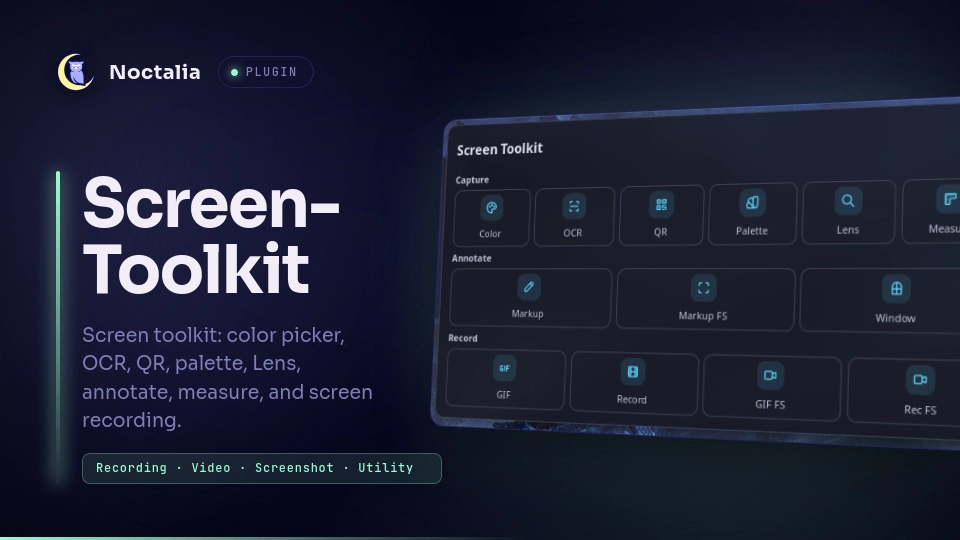
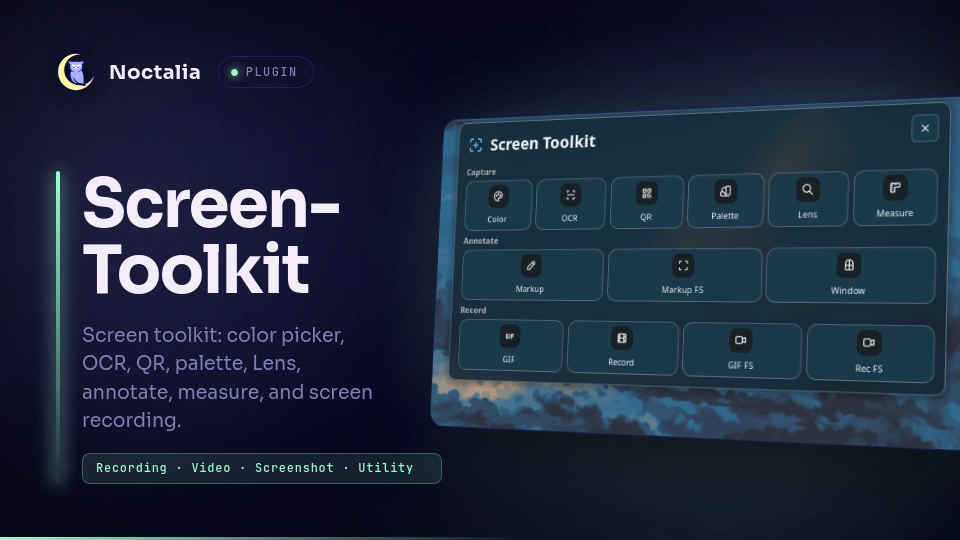
screen-toolkit: add compact/full panel modes, mode-aware toggle, and … (#237)
* screen-toolkit: add compact/full panel modes, mode-aware toggle, and full documentation

* screen-toolkit: restrict compact tile hover/click to icon and label

* screen-toolkit: full-mode hover border on tile, mirror compact colors

* screen-toolkit: add plugin thumbnail screenshot

---------

Changed region(s): [[0.4375, 0.1778, 1.0, 0.8296], [0.75, 0.1778, 0.8438, 0.2074], [0.6875, 0.2074, 0.75, 0.237]]

diff --git a/screen-toolkit/README.md b/screen-toolkit/README.md
@@ -16,7 +16,7 @@ not the original implementation.
 | Field | Value |
 | --- | --- |
 | ID | `alexander/screen-toolkit` |
-| Entries | Bar widget: `widget`; control-center shortcut: `toggle`; panels: `panel` (tools), `result` (result view); service: `service` |
+| Entries | Bar widget: `widget`; control-center shortcut: `toggle`; panels: `panel` (compact tools), `panel-full` (full tools), `result` (result view); service: `service` |
 
 ## Requirements
 
@@ -60,10 +60,43 @@ Settings → Control Center shortcuts. Left-click either one opens the main pane
 (or stops a recording); right-clicking the bar widget quick-picks a color. While
 a recording is active, the widget and shortcut show a pulsing red dot.
 
-Open the main tools panel:
+The main panel has two layouts, selected by the `panel-mode` setting (default:
+**Full**):
+
+- **Full** — the spacious original grid with section titles (`panel-full`,
+  660×340).
+- **Compact** — a dense grid grouped into tinted sections (`panel`,
+  380×260).
+
+The widget and shortcut open whichever entry matches the setting; the panel
+footnote under Settings → Plugins shows both panels' placement/position
+options.
+
+Toggle the tools panel (opens the entry matching the `panel-mode` setting):
+
+```sh
+noctalia msg plugin alexander/screen-toolkit:service all toggle
+```
+
+For example, bind it to `SUPER+P` in Hyprland:
+
+```ini
+bind = SUPER, P, exec, noctalia msg plugin alexander/screen-toolkit:service all toggle
+```
+
+Because `toggle` reads the `panel-mode` setting, this single bind works in both
+full and compact mode — no need to change the keybind when you switch layouts.
+
+Open the compact tools panel:
 
 ```sh
 noctalia msg panel-toggle alexander/screen-toolkit:panel
+```
+
+Open the full tools panel (the original spacious grid):
+
+```sh
+noctalia msg panel-toggle alexander/screen-toolkit:panel-full
 ```
 
 Open the result panel (shows the last capture/recording output):
@@ -131,6 +164,7 @@ All settings live in Settings → Plugins (gear on the plugin's row).
 | `record-skip-confirmation` | `bool` | `false` | Save automatically when a recording ends, skipping the save dialog. |
 | `record-copy-to-clipboard` | `bool` | `false` | Finalize to MP4 and copy the file URI when recording ends. |
 | `gif-max-seconds` | `int` | `30` | Cap for GIF recordings (1–600 s). |
+| `panel-mode` | `select` | `full` | Main panel layout: `full` (spacious original grid, 660×340) or `compact` (dense grid, 380×260). |
 
 ## IPC
 
@@ -153,17 +187,70 @@ noctalia msg plugin alexander/screen-toolkit:service all recordFullscreen
 noctalia msg plugin alexander/screen-toolkit:service all recordFullscreenMp4
 noctalia msg plugin alexander/screen-toolkit:service all recordStop
 noctalia msg plugin alexander/screen-toolkit:service all recordSave
+noctalia msg plugin alexander/screen-toolkit:service all recordCopy
 noctalia msg plugin alexander/screen-toolkit:service all recordDiscard
+noctalia msg plugin alexander/screen-toolkit:service all ocrSearch
+noctalia msg plugin alexander/screen-toolkit:service all clearResult
+noctalia msg plugin alexander/screen-toolkit:service all clearHistory
 ```
 
-`ocrTranslate` takes a language code payload:
+`toggle` opens the tools panel **matching the `panel-mode` setting** — one IPC
+that works for both layouts. The bar widget and control-center shortcut use the
+same mode-aware toggle.
+
+Commands that take a payload:
 
 ```sh
+# Translate the current OCR text into a language (language code payload)
 noctalia msg plugin alexander/screen-toolkit:service all ocrTranslate en
+# Search the current OCR text (or a payload.text) with the configured engine
+noctalia msg plugin alexander/screen-toolkit:service all ocrSearch
+# Share a file on disk (absolute path payload)
+noctalia msg plugin alexander/screen-toolkit:service all share /path/to/image.png
+# Save the finished recording (payload format: "gif" or "mp4")
+noctalia msg plugin alexander/screen-toolkit:service all recordSave mp4
+# Show or hide the cursor in captures (payload: "true" or "false")
+noctalia msg plugin alexander/screen-toolkit:service all setCursorHidden true
 ```
+
+Summary of every service command:
+
+| Command | Payload | Action |
+| --- | --- | --- |
+| `toggle` | — | Open/close the tools panel that matches `panel-mode` |
+| `colorPicker` | — | Pick a color from the screen (region crosshair) |
+| `ocr` | — | Extract text from a region |
+| `qr` | — | Decode a QR / barcode from a region |
+| `palette` | — | Extract hex colors from a region |
+| `lens` | — | Google Lens search on a region |
+| `measure` | — | Report a region's pixel size |
+| `annotate` | — | Open a region in the annotation editor |
+| `annotateFullscreen` | — | Annotate the full screen |
+| `annotateWindow` | — | Annotate the focused window (Hyprland only) |
+| `record` | — | Record a region as GIF |
+| `recordMp4` | — | Record a region as MP4 |
+| `recordFullscreen` | — | Record the full screen as GIF |
+| `recordFullscreenMp4` | — | Record the full screen as MP4 |
+| `recordStop` | — | Stop the active recording |
+| `recordSave` | `"gif"` / `"mp4"` | Save the finished recording |
+| `recordCopy` | — | Finalize to MP4 and copy the file URI |
+| `recordDiscard` | — | Discard the finished recording |
+| `ocrSearch` | optional `{text}` | Search OCR text with the configured engine |
+| `ocrTranslate` | language code | Translate OCR text |
+| `share` | file path | Upload a file and copy the link |
+| `clearResult` | — | Clear the current result panel state |
+| `clearHistory` | — | Clear the color history |
+| `setCursorHidden` | `"true"` / `"false"` | Include/exclude the cursor in captures |
 
 ## Notes
 
+- **Two panel entries, one layout setting.** Panel size is host-owned: the host
+  sizes each `[[panel]]` entry from its `width`/`height`, and there is no runtime
+  resize. So the two layouts are two entries sharing `panel.luau`: `panel-full`
+  (660×340, the original spacious grid) and `panel` (380×260, the compact grid).
+  The `panel-mode` setting picks which one renders, and `toggle`/widget/shortcut
+  all open the matching entry. Changing the setting only affects which panel
+  opens next time; an already-open panel keeps its current size until closed.
 - This is a port of the legacy v4
   [screen-toolkit](https://github.com/noctalia-dev/legacy-v4-plugins/tree/main/screen-toolkit)
   plugin. Tools that relied on freeform v4 QML overlays are adapted: region
